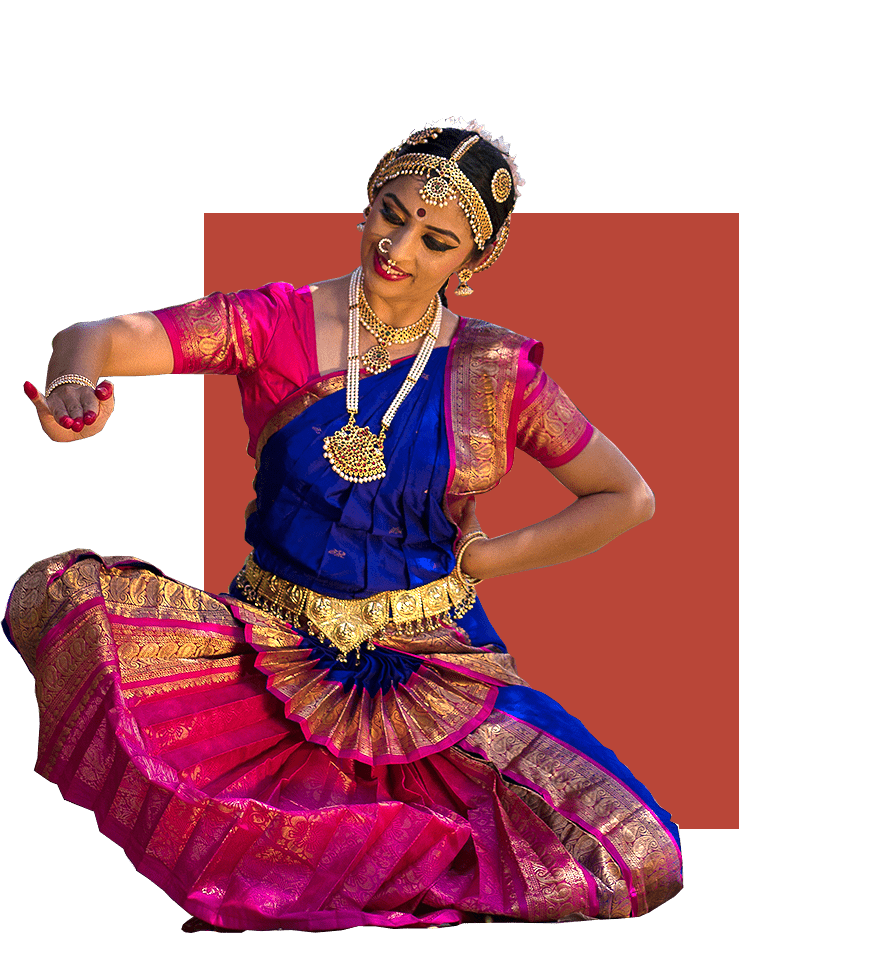
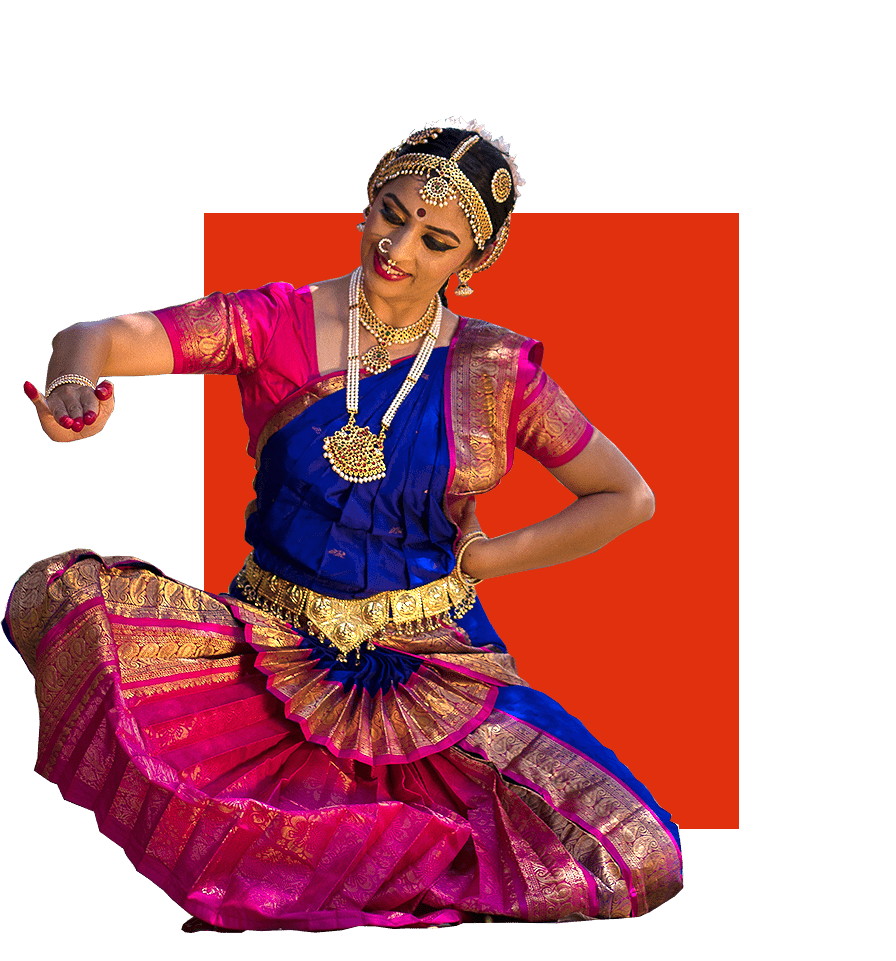
shibika: update colors

diff --git a/shibika/assets/css/style.css b/shibika/assets/css/style.css
@@ -1,1 +1,1 @@
-html{line-height:1.15;-webkit-text-size-adjust:100%}body{margin:0}main{display:block}h1{font-size:2em;margin:0.67em 0}hr{box-sizing:content-box;height:0;overflow:visible}pre{font-family:monospace, monospace;font-size:1em}a{background-color:transparent}abbr[title]{border-bottom:none;text-decoration:underline;text-decoration:underline dotted}b,strong{font-weight:bolder}code,kbd,samp{font-family:monospace, monospace;font-size:1em}small{font-size:80%}sub,sup{font-size:75%;line-height:0;position:relative;vertical-align:baseline}sub{bottom:-0.25em}sup{top:-0.5em}img{border-style:none}button,input,optgroup,select,textarea{font-family:inherit;font-size:100%;line-height:1.15;margin:0}button,input{overflow:visible}button,select{text-transform:none}button,[type="button"],[type="reset"],[type="submit"]{-webkit-appearance:button}button::-moz-focus-inner,[type="button"]::-moz-focus-inner,[type="reset"]::-moz-focus-inner,[type="submit"]::-moz-focus-inner{border-style:none;padding:0}button:-moz-focusring,[type="button"]:-moz-focusring,[type="reset"]:-moz-focusring,[type="submit"]:-moz-focusring{outline:1px dotted ButtonText}fieldset{padding:0.35em 0.75em 0.625em}legend{box-sizing:border-box;color:inherit;display:table;max-width:100%;padding:0;white-space:normal}progress{vertical-align:baseline}textarea{overflow:auto}[type="checkbox"],[type="radio"]{box-sizing:border-box;padding:0}[type="number"]::-webkit-inner-spin-button,[type="number"]::-webkit-outer-spin-button{height:auto}[type="search"]{-webkit-appearance:textfield;outline-offset:-2px}[type="search"]::-webkit-search-decoration{-webkit-appearance:none}::-webkit-file-upload-button{-webkit-appearance:button;font:inherit}details{display:block}summary{display:list-item}template{display:none}[hidden]{display:none}html,body{padding:0;margin:0;-webkit-box-sizing:border-box;-moz-box-sizing:border-box;box-sizing:border-box;-webkit-overflow-scrolling:touch}body{font-family:'Inter', sans-serif;font-size:15px;line-height:1.625;text-rendering:optimizeLegibility;-webkit-font-smoothing:antialiased;-moz-osx-font-smoothing:grayscale;color:#424A5C;background-color:#ffffff;-webkit-text-size-adjust:auto;-moz-text-size-adjust:auto;-ms-text-size-adjust:auto;text-size-adjust:auto}p{margin:30px 0 20px 0}h1,h2,h3,h4,.h1,.h2,.h3,.h4{margin:0}h1,.h1{font-size:3.25rem;line-height:1.2}@media only screen and (max-width: 767px){h1,.h1{font-size:2.15rem}}h2,.h2{font-size:2.15rem;line-height:1.2;color:rgba(0,0,0,0.9)}@media only screen and (max-width: 767px){h2,.h2{font-size:1.5rem}}a{color:#B94638;text-decoration:none}input,select,textarea{display:inline-block;width:100%}img{max-width:100%;vertical-align:middle}.container{max-width:1170px;margin:0 auto}@media only screen and (max-width: 1200px){.container{padding:0 3%}}.center{text-align:center}.red{color:#B94638 !important}.white{color:#ffffff !important}.black{color:rgba(0,0,0,0.9)}.right{text-align:right}.left{text-align:left}.underline{text-decoration:underline}.underline-border{border-bottom:1px solid}.uppercase{text-transform:uppercase}.bold{font-weight:bold}.position-relative{position:relative}.row{display:-webkit-box;display:-webkit-flex;display:-moz-box;display:-ms-flexbox;display:flex;-webkit-box-pack:center;-webkit-justify-content:center;-moz-box-pack:center;-ms-flex-pack:center;justify-content:center}@media only screen and (max-width: 767px){.row{-webkit-box-orient:vertical;-webkit-box-direction:normal;-webkit-flex-direction:column;-moz-box-orient:vertical;-moz-box-direction:normal;-ms-flex-direction:column;flex-direction:column}}.col{-webkit-box-flex:1;-webkit-flex:1;-moz-box-flex:1;-ms-flex:1;flex:1}.white-bg{background-color:#ffffff}.overflow-hidden{overflow:hidden}ul.list-unstyled{padding:0;margin:0;list-style:none}ul.list-unstyled li{padding:0;margin:10px 0}ul.list-inline li{display:inline-block;margin:0 10px}.button{display:inline-block;background-color:#B94638;padding:13px 30px;border-radius:50px;color:#ffffff;font-size:14px;text-transform:uppercase;text-decoration:none;font-weight:bold;opacity:1;transition:all 0.25s ease-in-out}.button:hover,.button:focus{opacity:0.9}.separator .container{border-bottom:1px solid #424A5C;opacity:0.5}nav{background-color:#080808;padding:10px 50px;align-items:center}nav a{color:#ffffff;margin:0;transition:all 0.25s ease-in-out}nav a:hover,nav a:focus{opacity:0.9}.footer-section{padding:20px 0}.footer-section p{font-size:2.5rem;font-weight:lighter;opacity:0.4;line-height:1.1}footer{background-color:#000000;padding:30px 0}footer img{max-width:35px}.index-hero{padding-top:70px;padding-bottom:90px;background-color:#424A5C;background-image:url("../img/artist-bg.jpg");background-position:center;background-repeat:no-repeat;background-size:cover}@media only screen and (max-width: 767px){.index-hero{text-align:center}}.index-hero h1{margin-bottom:15px}.index-hero p{margin:0;font-size:1.3rem;margin-bottom:90px}@media only screen and (max-width: 767px){.index-hero{background-position:90% bottom;background-size:cover;background-color:rgba(0,0,0,0.8);background-blend-mode:overlay}}.index-features{background:url("../img/bottom.png") bottom no-repeat,url("../img/middle.png") center 410px no-repeat;background-size:contain}@media only screen and (max-width: 979px){.index-features{background:url("../img/bottom.png") bottom no-repeat,url("../img/middle.png") center 40% no-repeat;background-size:200%}}@media only screen and (max-width: 767px){.index-features{text-align:center}}.index-features a.button{background-color:#424A5C}.index-features h2{margin-bottom:20px}.index-features p{margin-top:0;margin-bottom:35px;font-size:17px;line-height:1.3;max-width:500px}.index-features .row{align-items:center;padding:70px 0;margin:0 7%}@media only screen and (max-width: 767px){.index-features .row{margin:0}}.index-features .row img{max-width:300px}@media only screen and (max-width: 767px){.index-features .row img{margin-bottom:30px}}.index-features .row .col{flex:3}.index-features .row .col:first-child{flex:2}.index-features .row:nth-child(even) .col{flex:2}.index-features .row:nth-child(even) .col:first-child{flex:3}@media only screen and (max-width: 767px){.index-features .row:nth-child(even) .col{order:1}.index-features .row:nth-child(even) .col:first-child{order:2}}.fans .index-hero{background-image:url("../img/fans-bg.jpg")}@media only screen and (max-width: 979px){.fans .index-hero{background-position:25% center}}@media only screen and (max-width: 767px){.fans .index-hero{background-position:100% bottom;background-color:rgba(0,0,0,0.65)}}.spotlight-hero{min-height:450px;padding:150px 0;background-image:url("../img/saurabh-turakhia.png");background-position:calc(50% + 250px) 110%;background-size:500px;background-repeat:no-repeat}.spotlight-hero h1{color:initial;margin-top:100px;margin-bottom:0px;font-size:2.7em}.spotlight-hero p{margin:0;font-size:1.8em}@media only screen and (max-width: 767px){.spotlight-hero{text-align:center;background-position:center bottom;background-size:500px;padding-top:75px;padding-bottom:400px}.spotlight-hero h1{margin-top:0}}@media only screen and (max-width: 480px){.spotlight-hero{padding-bottom:200px;background-size:350px}}.spotlight-about{padding:125px 0}.spotlight-about .row .col:first-child{flex:2}.spotlight-about .row .col:last-child{flex:3}.spotlight-about img{max-width:650px;width:100%}@media only screen and (max-width: 767px){.spotlight-about{text-align:center}.spotlight-about img{margin-top:50px}}.spotlight-conversation{padding-top:125px;padding-bottom:75px}.spotlight-conversation h2{margin-bottom:80px;max-width:500px}.spotlight-conversation .container>.row{margin:70px 0;align-items:center}.spotlight-conversation .container>.row img{max-width:400px;width:100%}.spotlight-conversation .container>.row h3{color:initial;font-size:1.7em;line-height:1.3}@media only screen and (max-width: 767px){.spotlight-conversation .container>.row h3{font-size:1.3em}}@media only screen and (max-width: 767px){.spotlight-conversation .container>.row .col{order:1}.spotlight-conversation .container>.row .col.center{order:2}.spotlight-conversation .container>.row .col.center img{margin-top:20px;margin-bottom:50px}}@media only screen and (max-width: 767px){.spotlight-conversation{text-align:center}.spotlight-conversation h2{margin-left:auto;margin-right:auto}}.spotlight-work{padding:125px 0}.spotlight-work h2{margin-bottom:30px}.spotlight-work .row{max-width:1000px;margin:auto}.spotlight-work .row .col{position:relative;min-height:300px;background-repeat:no-repeat;background-size:cover;background-position:center;margin:10px}.spotlight-work .row .col:first-child{background-image:url("../img/art-blog.png")}.spotlight-work .row .col:last-child{background-image:url("../img/short-stories-blog.png")}.spotlight-work .row .col span{position:absolute;top:50%;left:50%;color:#fff;font-size:1.4em;transform:translate(-50%)}.spotlight-cta{padding:75px 0}.spotlight-cta p{font-size:1.5em;color:initial;margin-top:0}.spotag section{padding:100px 0}.spotag section.dark{background-color:rgba(0,0,0,0.9)}.spotag section.dark *{color:#fff}.spotag h1{font-size:3.5em;line-height:0.9;font-weight:800}@media only screen and (max-width: 767px){.spotag h1{font-size:2.5em}}.spotag h3{color:rgba(0,0,0,0.9);line-height:1.4;font-size:1.4em}.spotag p{line-height:1.8;margin-top:15px}.spotag .row{align-items:center}@media only screen and (max-width: 767px){.spotag .col.right,.spotag .col.left{text-align:center}}.spotag .spotag-hero{padding:0;overflow:hidden}.spotag .spotag-hero p{margin-top:10px;font-size:1.3em}.spotag .spotag-hero img{transform:scale(1.1);transform-origin:left}@media only screen and (max-width: 767px){.spotag .spotag-hero{padding-top:30px;text-align:center}.spotag .spotag-hero img{transform:translate(40px, -50px)}}@media only screen and (max-width: 767px){.spotag .spotag-about{padding-top:0}}@media only screen and (max-width: 767px){.spotag .spotag-about .row{flex-direction:column-reverse}}.spotag .spotag-about .row>.col:first-child{flex:3}.spotag .spotag-about .row>.col:last-child{flex:2;padding:50px}@media only screen and (max-width: 767px){.spotag .spotag-about .row>.col:last-child{padding:0 0 20px}}.spotag .spotag-conversation{padding-bottom:70px}.spotag .spotag-conversation h2{margin-top:0;margin-bottom:75px}.spotag .spotag-conversation img{max-width:400px;width:100%;object-fit:contain}@media only screen and (max-width: 767px){.spotag .spotag-conversation{padding:50px 0}.spotag .spotag-conversation h2{margin-bottom:50px}.spotag .spotag-conversation img{margin-top:30px}}.spotag .spotag-conv1{padding:0}.spotag .spotag-conv1 img{transform:translateY(-65px);max-width:450px;width:100%;object-fit:contain}@media only screen and (max-width: 767px){.spotag .spotag-conv1{padding:50px 0}.spotag .spotag-conv1 img{padding-top:30px;transform:translateY(0)}.spotag .spotag-conv1 .row{flex-direction:column-reverse}}.spotag .spotag-conv2{padding:0}.spotag .spotag-conv2 img{transform:scale(1.1);max-width:330px;width:100%;object-fit:contain}@media only screen and (max-width: 767px){.spotag .spotag-conv2{padding:50px 0}.spotag .spotag-conv2 img{transform:unset;padding-top:30px}}.spotag .spotag-conv3{padding:30px 0}.spotag .spotag-conv3 img{transform:translateY(80px);max-width:400px;width:100%;object-fit:contain}@media only screen and (max-width: 767px){.spotag .spotag-conv3{padding:50px 0}.spotag .spotag-conv3 .row{flex-direction:column-reverse}.spotag .spotag-conv3 img{padding-top:30px;transform:translateY(0px)}}.spotag .spotag-conv4{padding:0}.spotag .spotag-conv4 img{max-width:400px;transform:translateY(-30px);width:100%;object-fit:contain}@media only screen and (max-width: 767px){.spotag .spotag-conv4{padding:50px 0}.spotag .spotag-conv4 img{padding-top:30px;transform:translateY(0px);max-height:400px}}
+html{line-height:1.15;-webkit-text-size-adjust:100%}body{margin:0}main{display:block}h1{font-size:2em;margin:0.67em 0}hr{box-sizing:content-box;height:0;overflow:visible}pre{font-family:monospace, monospace;font-size:1em}a{background-color:transparent}abbr[title]{border-bottom:none;text-decoration:underline;text-decoration:underline dotted}b,strong{font-weight:bolder}code,kbd,samp{font-family:monospace, monospace;font-size:1em}small{font-size:80%}sub,sup{font-size:75%;line-height:0;position:relative;vertical-align:baseline}sub{bottom:-0.25em}sup{top:-0.5em}img{border-style:none}button,input,optgroup,select,textarea{font-family:inherit;font-size:100%;line-height:1.15;margin:0}button,input{overflow:visible}button,select{text-transform:none}button,[type="button"],[type="reset"],[type="submit"]{-webkit-appearance:button}button::-moz-focus-inner,[type="button"]::-moz-focus-inner,[type="reset"]::-moz-focus-inner,[type="submit"]::-moz-focus-inner{border-style:none;padding:0}button:-moz-focusring,[type="button"]:-moz-focusring,[type="reset"]:-moz-focusring,[type="submit"]:-moz-focusring{outline:1px dotted ButtonText}fieldset{padding:0.35em 0.75em 0.625em}legend{box-sizing:border-box;color:inherit;display:table;max-width:100%;padding:0;white-space:normal}progress{vertical-align:baseline}textarea{overflow:auto}[type="checkbox"],[type="radio"]{box-sizing:border-box;padding:0}[type="number"]::-webkit-inner-spin-button,[type="number"]::-webkit-outer-spin-button{height:auto}[type="search"]{-webkit-appearance:textfield;outline-offset:-2px}[type="search"]::-webkit-search-decoration{-webkit-appearance:none}::-webkit-file-upload-button{-webkit-appearance:button;font:inherit}details{display:block}summary{display:list-item}template{display:none}[hidden]{display:none}html,body{padding:0;margin:0;-webkit-box-sizing:border-box;-moz-box-sizing:border-box;box-sizing:border-box;-webkit-overflow-scrolling:touch}body{font-family:'Inter', sans-serif;font-size:15px;line-height:1.625;text-rendering:optimizeLegibility;-webkit-font-smoothing:antialiased;-moz-osx-font-smoothing:grayscale;color:#283041;background-color:#ffffff;-webkit-text-size-adjust:auto;-moz-text-size-adjust:auto;-ms-text-size-adjust:auto;text-size-adjust:auto}p{margin:30px 0 20px 0}h1,h2,h3,h4,.h1,.h2,.h3,.h4{margin:0}h1,.h1{font-size:3.25rem;line-height:1.2}@media only screen and (max-width: 767px){h1,.h1{font-size:2.15rem}}h2,.h2{font-size:2.15rem;line-height:1.2;color:#292929}@media only screen and (max-width: 767px){h2,.h2{font-size:1.5rem}}a{color:#e0300e;text-decoration:none}input,select,textarea{display:inline-block;width:100%}img{max-width:100%;vertical-align:middle}.container{max-width:1170px;margin:0 auto}@media only screen and (max-width: 1200px){.container{padding:0 3%}}.center{text-align:center}.red{color:#e0300e !important}.white{color:#ffffff !important}.black{color:#292929}.right{text-align:right}.left{text-align:left}.underline{text-decoration:underline}.underline-border{border-bottom:1px solid}.uppercase{text-transform:uppercase}.bold{font-weight:bold}.position-relative{position:relative}.row{display:-webkit-box;display:-webkit-flex;display:-moz-box;display:-ms-flexbox;display:flex;-webkit-box-pack:center;-webkit-justify-content:center;-moz-box-pack:center;-ms-flex-pack:center;justify-content:center}@media only screen and (max-width: 767px){.row{-webkit-box-orient:vertical;-webkit-box-direction:normal;-webkit-flex-direction:column;-moz-box-orient:vertical;-moz-box-direction:normal;-ms-flex-direction:column;flex-direction:column}}.col{-webkit-box-flex:1;-webkit-flex:1;-moz-box-flex:1;-ms-flex:1;flex:1}.white-bg{background-color:#ffffff}.overflow-hidden{overflow:hidden}ul.list-unstyled{padding:0;margin:0;list-style:none}ul.list-unstyled li{padding:0;margin:10px 0}ul.list-inline li{display:inline-block;margin:0 10px}.button{display:inline-block;background-color:#e0300e;padding:13px 30px;border-radius:50px;color:#ffffff;font-size:14px;text-transform:uppercase;text-decoration:none;font-weight:bold;opacity:1;transition:all 0.25s ease-in-out}.button:hover,.button:focus{opacity:0.9}.separator .container{border-bottom:1px solid #283041;opacity:0.5}nav{background-color:#080808;padding:10px 50px;align-items:center}nav a{color:#ffffff;margin:0;transition:all 0.25s ease-in-out}nav a:hover,nav a:focus{opacity:0.9}.footer-section{padding:20px 0}.footer-section p{font-size:2.5rem;font-weight:lighter;opacity:0.4;line-height:1.1}footer{background-color:#000000;padding:30px 0}footer img{max-width:35px}.index-hero{padding-top:70px;padding-bottom:90px;background-color:#283041;background-image:url("../img/artist-bg.jpg");background-position:center;background-repeat:no-repeat;background-size:cover}@media only screen and (max-width: 767px){.index-hero{text-align:center}}.index-hero h1{margin-bottom:15px}.index-hero p{margin:0;font-size:1.3rem;margin-bottom:90px}@media only screen and (max-width: 767px){.index-hero{background-position:90% bottom;background-size:cover;background-color:rgba(0,0,0,0.8);background-blend-mode:overlay}}.index-features{background:url("../img/bottom.png") bottom no-repeat,url("../img/middle.png") center 410px no-repeat;background-size:contain}@media only screen and (max-width: 979px){.index-features{background:url("../img/bottom.png") bottom no-repeat,url("../img/middle.png") center 40% no-repeat;background-size:200%}}@media only screen and (max-width: 767px){.index-features{text-align:center}}.index-features a.button{background-color:#283041}.index-features h2{margin-bottom:20px}.index-features p{margin-top:0;margin-bottom:35px;font-size:17px;line-height:1.3;max-width:500px}.index-features .row{align-items:center;padding:70px 0;margin:0 7%}@media only screen and (max-width: 767px){.index-features .row{margin:0}}.index-features .row img{max-width:300px}@media only screen and (max-width: 767px){.index-features .row img{margin-bottom:30px}}.index-features .row .col{flex:3}.index-features .row .col:first-child{flex:2}.index-features .row:nth-child(even) .col{flex:2}.index-features .row:nth-child(even) .col:first-child{flex:3}@media only screen and (max-width: 767px){.index-features .row:nth-child(even) .col{order:1}.index-features .row:nth-child(even) .col:first-child{order:2}}.fans .index-hero{background-image:url("../img/fans-bg.jpg")}@media only screen and (max-width: 979px){.fans .index-hero{background-position:25% center}}@media only screen and (max-width: 767px){.fans .index-hero{background-position:100% bottom;background-color:rgba(0,0,0,0.65)}}.spotlight-hero{min-height:450px;padding:150px 0;background-image:url("../img/saurabh-turakhia.png");background-position:calc(50% + 250px) 110%;background-size:500px;background-repeat:no-repeat}.spotlight-hero h1{color:initial;margin-top:100px;margin-bottom:0px;font-size:2.7em}.spotlight-hero p{margin:0;font-size:1.8em}@media only screen and (max-width: 767px){.spotlight-hero{text-align:center;background-position:center bottom;background-size:500px;padding-top:75px;padding-bottom:400px}.spotlight-hero h1{margin-top:0}}@media only screen and (max-width: 480px){.spotlight-hero{padding-bottom:200px;background-size:350px}}.spotlight-about{padding:125px 0}.spotlight-about .row .col:first-child{flex:2}.spotlight-about .row .col:last-child{flex:3}.spotlight-about img{max-width:650px;width:100%}@media only screen and (max-width: 767px){.spotlight-about{text-align:center}.spotlight-about img{margin-top:50px}}.spotlight-conversation{padding-top:125px;padding-bottom:75px}.spotlight-conversation h2{margin-bottom:80px;max-width:500px}.spotlight-conversation .container>.row{margin:70px 0;align-items:center}.spotlight-conversation .container>.row img{max-width:400px;width:100%}.spotlight-conversation .container>.row h3{color:initial;font-size:1.7em;line-height:1.3}@media only screen and (max-width: 767px){.spotlight-conversation .container>.row h3{font-size:1.3em}}@media only screen and (max-width: 767px){.spotlight-conversation .container>.row .col{order:1}.spotlight-conversation .container>.row .col.center{order:2}.spotlight-conversation .container>.row .col.center img{margin-top:20px;margin-bottom:50px}}@media only screen and (max-width: 767px){.spotlight-conversation{text-align:center}.spotlight-conversation h2{margin-left:auto;margin-right:auto}}.spotlight-work{padding:125px 0}.spotlight-work h2{margin-bottom:30px}.spotlight-work .row{max-width:1000px;margin:auto}.spotlight-work .row .col{position:relative;min-height:300px;background-repeat:no-repeat;background-size:cover;background-position:center;margin:10px}.spotlight-work .row .col:first-child{background-image:url("../img/art-blog.png")}.spotlight-work .row .col:last-child{background-image:url("../img/short-stories-blog.png")}.spotlight-work .row .col span{position:absolute;top:50%;left:50%;color:#fff;font-size:1.4em;transform:translate(-50%)}.spotlight-cta{padding:75px 0}.spotlight-cta p{font-size:1.5em;color:initial;margin-top:0}.spotag section{padding:100px 0}.spotag section.dark{background-color:#292929}.spotag section.dark *{color:#fff}.spotag h1{font-size:3.5em;line-height:0.9;font-weight:800}@media only screen and (max-width: 767px){.spotag h1{font-size:2.5em}}.spotag h3{color:#292929;line-height:1.4;font-size:1.4em}.spotag p{line-height:1.8;margin-top:15px}.spotag .row{align-items:center}@media only screen and (max-width: 767px){.spotag .col.right,.spotag .col.left{text-align:center}}.spotag .spotag-hero{padding:0;overflow:hidden}.spotag .spotag-hero p{margin-top:10px;font-size:1.3em}.spotag .spotag-hero img{transform:scale(1.1);transform-origin:left}@media only screen and (max-width: 767px){.spotag .spotag-hero{padding-top:30px;text-align:center}.spotag .spotag-hero img{transform:translate(40px, -50px)}}@media only screen and (max-width: 767px){.spotag .spotag-about{padding-top:0}}@media only screen and (max-width: 767px){.spotag .spotag-about .row{flex-direction:column-reverse}}.spotag .spotag-about .row>.col:first-child{flex:3}.spotag .spotag-about .row>.col:last-child{flex:2;padding:50px}@media only screen and (max-width: 767px){.spotag .spotag-about .row>.col:last-child{padding:0 0 20px}}.spotag .spotag-conversation{padding-bottom:70px}.spotag .spotag-conversation h2{margin-top:0;margin-bottom:75px}.spotag .spotag-conversation img{max-width:400px;width:100%;object-fit:contain}@media only screen and (max-width: 767px){.spotag .spotag-conversation{padding:50px 0}.spotag .spotag-conversation h2{margin-bottom:50px}.spotag .spotag-conversation img{margin-top:30px}}.spotag .spotag-conv1{padding:0}.spotag .spotag-conv1 img{transform:translateY(-65px);max-width:450px;width:100%;object-fit:contain}@media only screen and (max-width: 767px){.spotag .spotag-conv1{padding:50px 0}.spotag .spotag-conv1 img{padding-top:30px;transform:translateY(0)}.spotag .spotag-conv1 .row{flex-direction:column-reverse}}.spotag .spotag-conv2{padding:0}.spotag .spotag-conv2 img{transform:scale(1.1);max-width:330px;width:100%;object-fit:contain}@media only screen and (max-width: 767px){.spotag .spotag-conv2{padding:50px 0}.spotag .spotag-conv2 img{transform:unset;padding-top:30px}}.spotag .spotag-conv3{padding:30px 0}.spotag .spotag-conv3 img{transform:translateY(80px);max-width:400px;width:100%;object-fit:contain}@media only screen and (max-width: 767px){.spotag .spotag-conv3{padding:50px 0}.spotag .spotag-conv3 .row{flex-direction:column-reverse}.spotag .spotag-conv3 img{padding-top:30px;transform:translateY(0px)}}.spotag .spotag-conv4{padding:0}.spotag .spotag-conv4 img{max-width:400px;transform:translateY(-30px);width:100%;object-fit:contain}@media only screen and (max-width: 767px){.spotag .spotag-conv4{padding:50px 0}.spotag .spotag-conv4 img{padding-top:30px;transform:translateY(0px);max-height:400px}}
